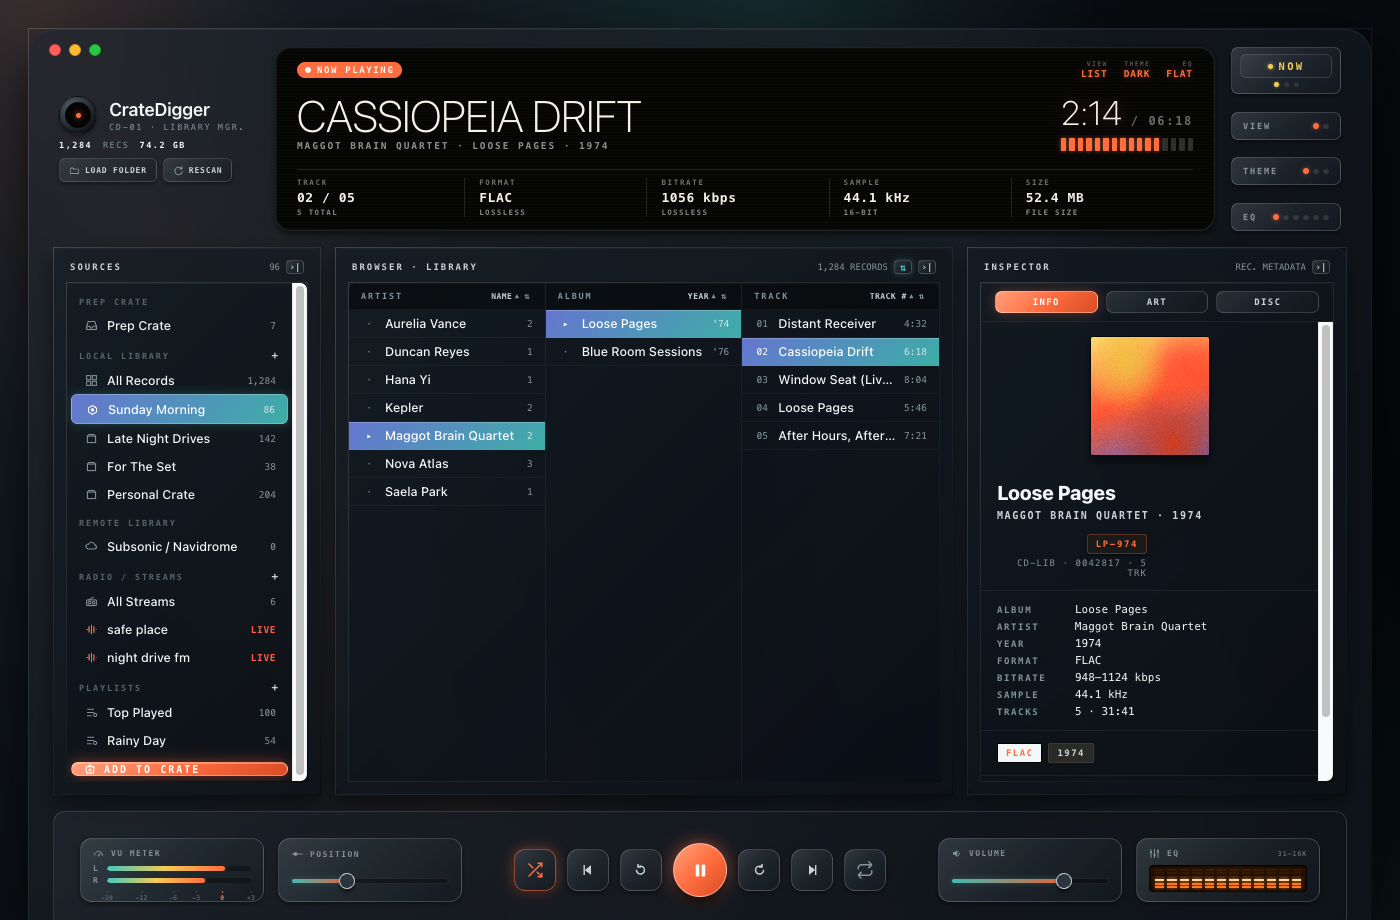
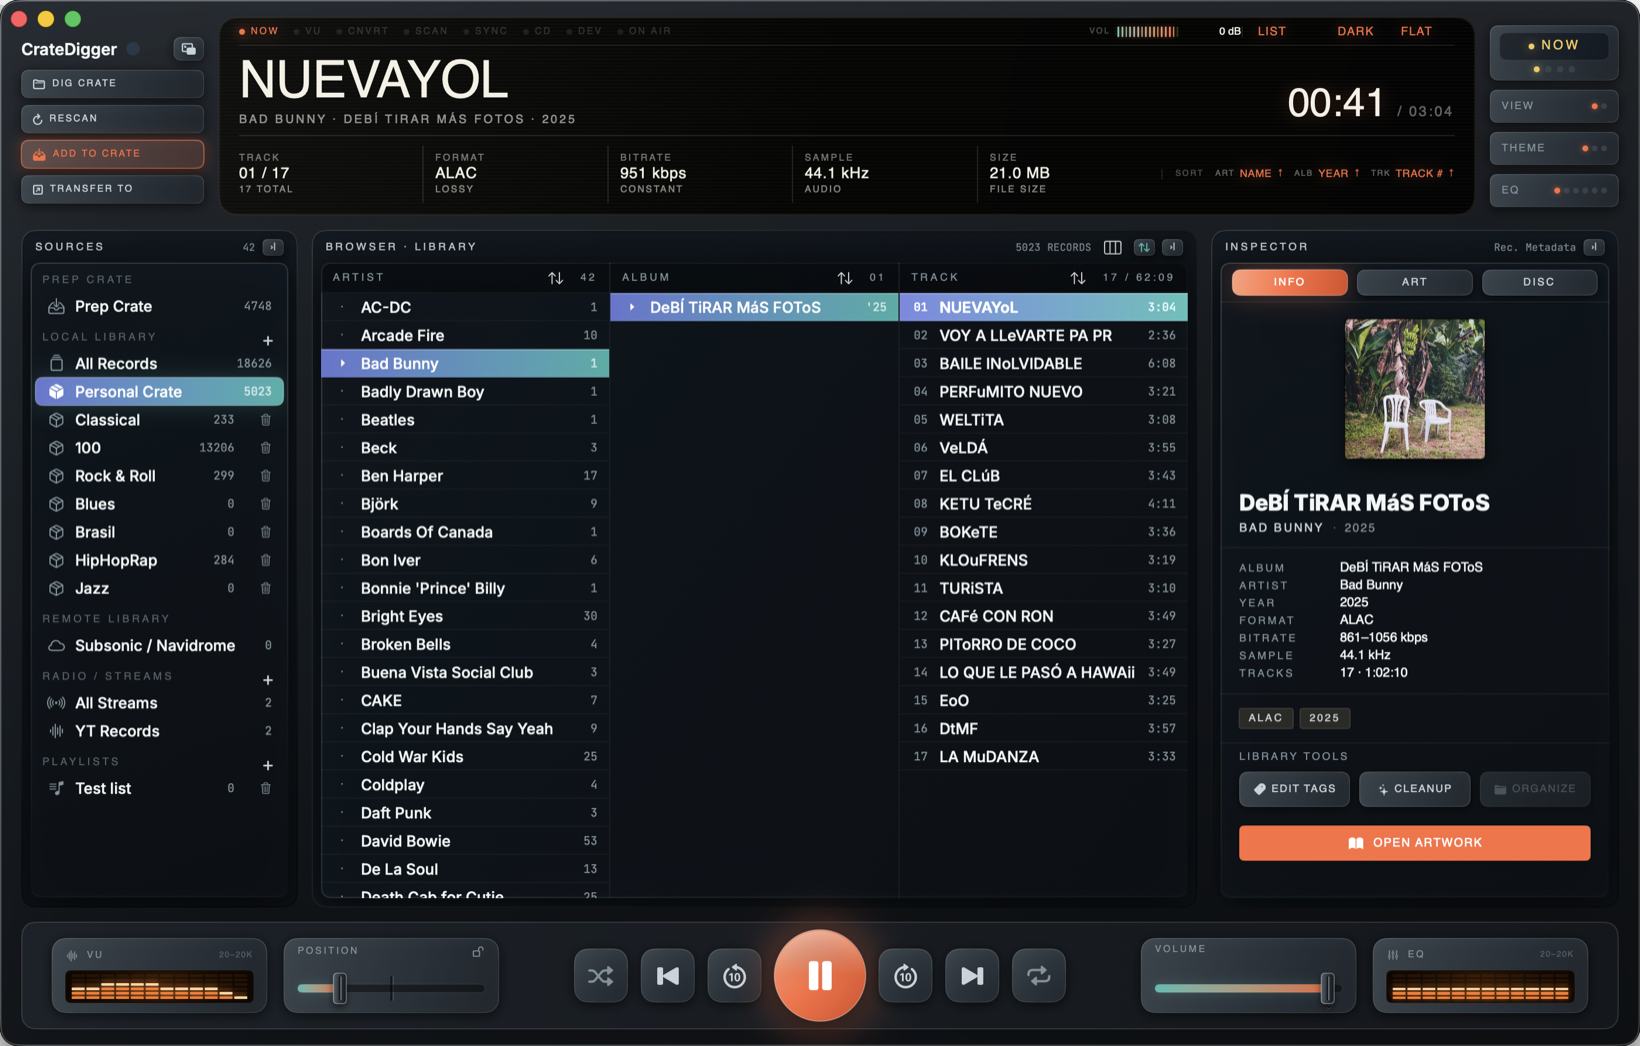
docs(readme): rewrite for the 1.0 feature set, refresh screenshot
First-person rewrite covering everything since 0.9: radio (yt-dlp),
Record Divider, 12-band EQ + spectrum, device transfer, mini player,
drag-to-Prep-Crate, light/dark. Screenshot replaced with a live capture
of RC 2 in dark mode.

Changed region(s): [[0.0, 0.0, 1.0, 1.0], [0.3379, 0.8522, 1.0, 1.0]]

diff --git a/README.md b/README.md
@@ -1,47 +1,82 @@
 # CrateDigger
 
-**A skeuomorphic music-library workbench for macOS.** CrateDigger scans your
-folders of audio files, browses and plays them on a tactile "hardware" console,
-inspects and edits tags and artwork, tidies up messy libraries, and batch-converts
-files with FFmpeg — plus Subsonic/Navidrome streaming, Audio-CD ripping, and
-Last.fm scrobbling.
+A music-library workbench for macOS, for people who still keep their music as
+files. I got tired of juggling five different tools to rip, tag, convert and
+organize my collection, so I built one that does the whole job. Then I made it
+look like the hardware I wish I owned.
 
 ![Platform: macOS 13+](https://img.shields.io/badge/platform-macOS%2013%2B-blue)
 ![License: MIT](https://img.shields.io/badge/License-MIT-yellow.svg)
 
 <p align="center">
-  <img src="website/assets/screenshot_dark.png" alt="CrateDigger — the Carbon console: Sources, Browser, and Inspector panes with an OLED display and VU meters" width="820">
+  <img src="website/assets/screenshot_dark.png" alt="CrateDigger playing an album: Sources, Browser and Inspector panes under the OLED display, transport controls and VU meters below" width="820">
 </p>
 
-## Features
+The whole interface is a hardware console (the design system is called
+Carbon): chassis panels, an OLED display, VU meters, faders, knobs, buttons
+that light up when you hover. Light and dark, your pick. No cloud, no
+accounts, no database lock-in — your files stay files.
 
-- **Browse** your collection by Artist → Album → Track with cover art.
-- **Play** with a queue, shuffle/repeat, ±8s seek, and output-device selection.
-- **Inspect & edit** metadata and embedded artwork track-by-track.
-- **Organize & clean up** — move/consolidate libraries and fix folder layouts.
-- **Convert** with FFmpeg: choose codec, bitrate/sample-rate, artwork handling,
-  and flexible output-folder structures (mirror source, flat, or metadata template),
-  with collision-safe filenames.
-- **Crates** (`.cdlib`) to save and organize collections, with a staging "Prep Crate".
-- **Stream** from Subsonic / Navidrome servers.
-- **Rip** Audio CDs, and **scrobble** to Last.fm.
-- A skeuomorphic **"Carbon"** UI — chassis panels, an OLED display, VU meters, and knobs.
+## What it does
+
+**Library.** Hit *Dig Crate*, point it at a folder, and it scans everything in
+it, however deep. Browse by Artist → Album → Track with cover art. Collections
+are saved as *crates* — plain JSON files, so nothing is held hostage. Newly
+dug music lands in a staging Prep Crate first so your good crates stay clean.
+Or skip all of that and just drop files and folders onto the window.
+
+**Playback.** Queue, shuffle, repeat, ±8s nudge, output-device picker, a real
+12-band EQ (20 Hz–20 kHz) and a live spectrum on the VU meters. There's a mini
+player for when the console is too much console.
+
+**Tags & artwork.** Inspect and edit metadata track by track, fix embedded
+artwork, pull missing covers, and keep album booklets and scans together with
+the music.
+
+**Cleanup & conversion.** Move or consolidate the whole library, straighten
+out messy folder layouts, and batch-convert with FFmpeg: codec, bitrate,
+sample rate, artwork handling, and the output folder structure (mirror the
+source tree, flat, or built from metadata). Filename collisions are handled
+for you.
+
+**Vinyl rips.** The Record Divider takes one long recording of a record side,
+finds the silences between songs, and cuts it into per-track files with proper
+tags. Detection sensitivity is a slider, so quiet passages don't get a song
+chopped in half.
+
+**Radio.** Paste a YouTube URL and treat it like a tuner — live stations, full
+sets, mixes and playlists, straight through the same transport and meters.
+(Needs yt-dlp, see requirements.)
+
+**More sources.** Rip audio CDs. Browse and stream a Subsonic / Navidrome
+server. M3U playlists.
+
+**Devices.** Copy music onto anything that mounts as a drive — USB players, SD
+cards — with per-device profiles and one shortcut (⌘⇧T).
+
+**Scrobbling.** Last.fm, if that's your thing.
 
 ## Requirements
 
 - **macOS 13 (Ventura) or later.**
-- **Apple Silicon** for the default build. (Intel/universal builds are possible but
-  need a universal Swift build and a `lipo`-merged universal FFmpeg — see below.)
-- The packaged app **bundles `ffmpeg` and `ffprobe`**, so end users need nothing
-  extra. When building from source, FFmpeg is optional: without it the app falls
-  back to AVFoundation-only metadata and conversion is disabled.
+- **Apple Silicon** for the default build. (Intel/universal builds are possible
+  but need a universal Swift build and a `lipo`-merged universal FFmpeg — see
+  below.)
+- The packaged app **bundles `ffmpeg` and `ffprobe`**, so there's nothing extra
+  to install. When building from source, FFmpeg is optional: without it the app
+  falls back to AVFoundation-only metadata and conversion is disabled.
+- YouTube radio needs [yt-dlp](https://github.com/yt-dlp/yt-dlp)
+  (`brew install yt-dlp`). Everything else works fine without it.
 
 ## Install
 
-- **Download** the latest signed `.dmg` from the [Releases](https://github.com/mrbarkan/cratedigger/releases) page and drag CrateDigger to Applications.
-- Or **build it yourself** (see below).
+Grab the latest signed `.dmg` from the
+[Releases](https://github.com/mrbarkan/cratedigger/releases) page and drag
+CrateDigger to Applications. Currently at a 1.0 release candidate.
 
-If you find CrateDigger useful, you can support development on
+Or build it yourself (below).
+
+If CrateDigger is useful to you, you can chip in on
 [Patreon](https://www.patreon.com/mrbarkan). 💛
 
 ## Building from source
@@ -85,8 +120,11 @@ scripts/package-app.sh --ffmpeg /opt/homebrew/bin/ffmpeg --ffprobe /opt/homebrew
 > local dev only. (Intel/universal distribution additionally needs a universal
 > Swift build + a `lipo`-merged universal ffmpeg.)
 
-The packaged app is written to `dist/CrateDigger.app`. By default the bundle is ad-hoc signed (suitable for local development only).
-The packaging script also prefers a full Xcode developer directory when one is installed and uses a repo-local module cache so the build is less sensitive to machine-wide Swift cache state.
+The packaged app is written to `dist/CrateDigger.app`. By default the bundle is
+ad-hoc signed (suitable for local development only). The packaging script also
+prefers a full Xcode developer directory when one is installed and uses a
+repo-local module cache so the build is less sensitive to machine-wide Swift
+cache state.
 
 ### Distribution build (Developer ID + notarized DMG)
 
@@ -106,9 +144,12 @@ CRATEDIGGER_NOTARY_PROFILE=cratedigger-notary \
     --dmg
 ```
 
-This produces `dist/CrateDigger-<version>.dmg`, signed and stapled, that opens cleanly on any Mac. The hardened runtime entitlements live in `Packaging/CrateDiggerApp/CrateDigger.entitlements` (library-validation disabled so the bundled `ffmpeg`/`ffprobe` binaries can run).
+This produces `dist/CrateDigger-<version>.dmg`, signed and stapled, that opens
+cleanly on any Mac. The hardened runtime entitlements live in
+`Packaging/CrateDiggerApp/CrateDigger.entitlements` (library-validation
+disabled so the bundled `ffmpeg`/`ffprobe` binaries can run).
 
-For the full beta release gate, see [docs/BETA_RELEASE_CHECKLIST.md](docs/BETA_RELEASE_CHECKLIST.md).
+For the full release gate, see [docs/BETA_RELEASE_CHECKLIST.md](docs/BETA_RELEASE_CHECKLIST.md).
 
 ### Last.fm scrobbling (optional)
 
@@ -123,13 +164,13 @@ disabled). To enable Last.fm in your own build:
 3. For a `swift run` dev build, export `CRATEDIGGER_LASTFM_API_KEY` and
    `CRATEDIGGER_LASTFM_API_SECRET` in your shell instead.
 
-## Manual Smoke Checklist
+## Manual smoke checklist
 
 - Launch the packaged app on a Mac without Homebrew-installed FFmpeg tools.
 - Load a mixed-format music folder.
 - Confirm the empty state, loading state, and loaded-track state all make sense.
 - Inspect artwork and metadata for several tracks.
-- Play tracks, pause, seek on the LCD timeline, and use previous/next controls.
+- Play tracks, pause, seek on the OLED timeline, and use previous/next controls.
 - Convert files using `Source Relative`, `Flat`, and `Metadata Template` folder structures.
 - Use `Review album folders` and confirm the review sheet edits destinations correctly.
 - Convert files with duplicate basenames and verify CrateDigger renames outputs instead of overwriting them.